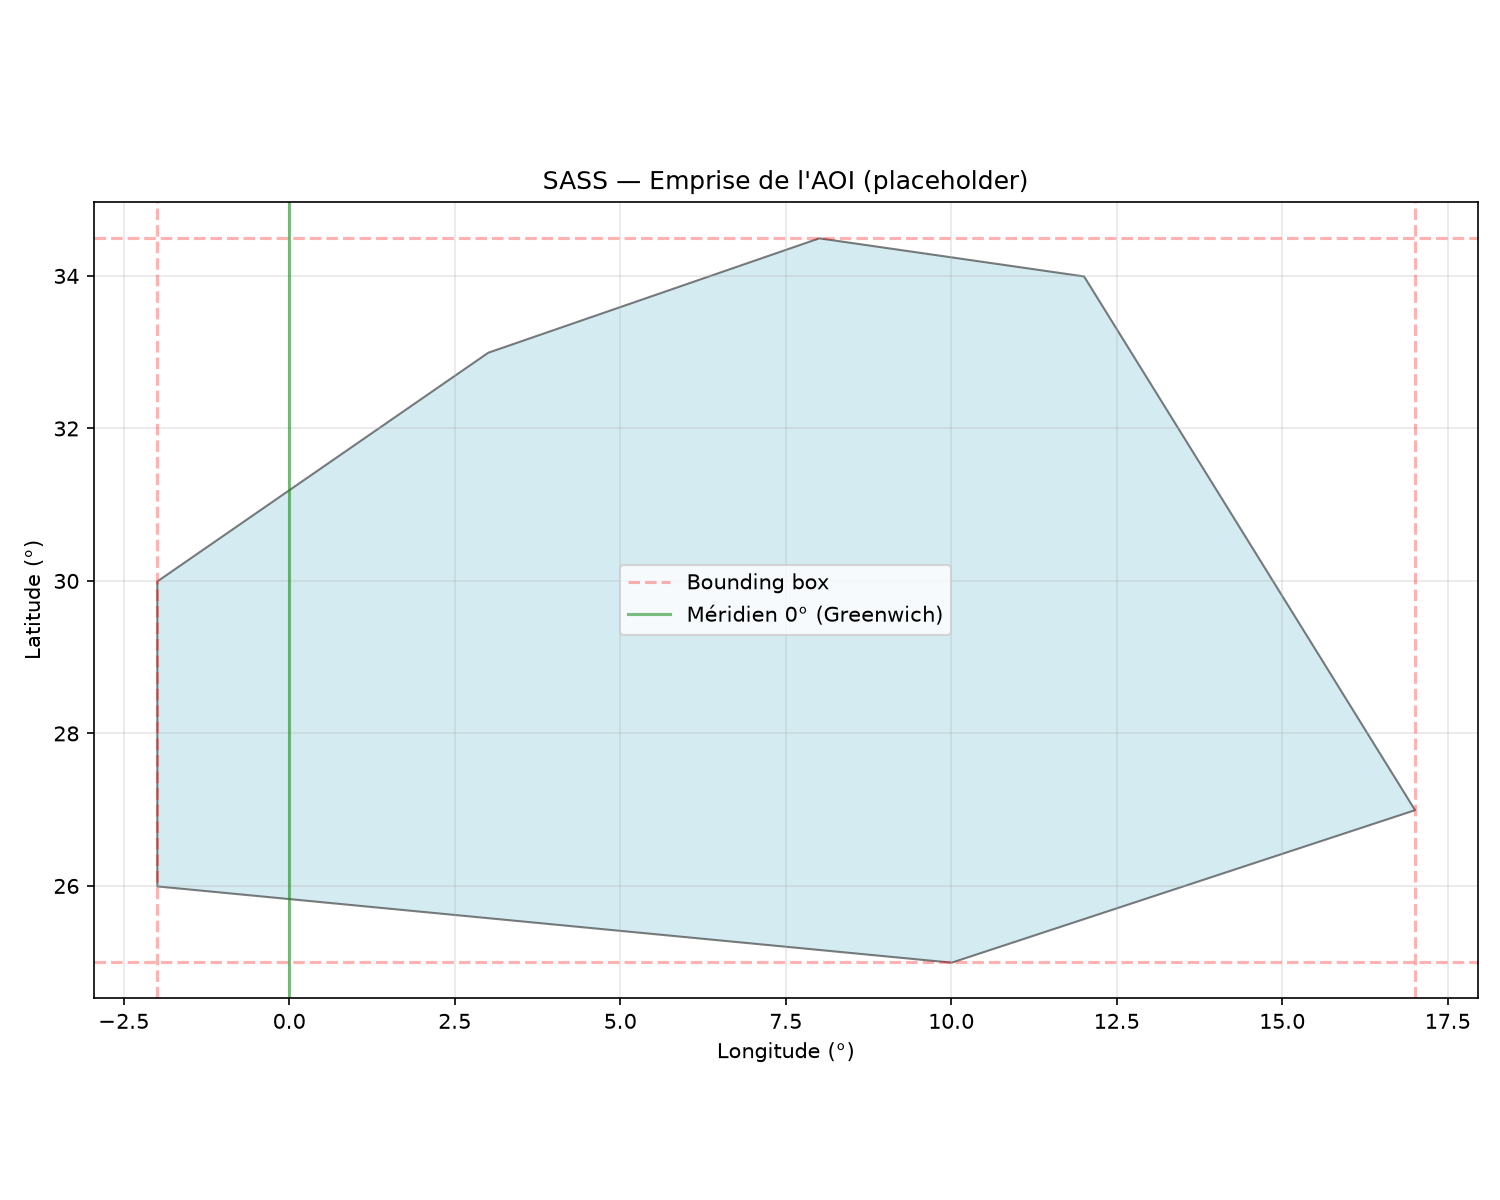
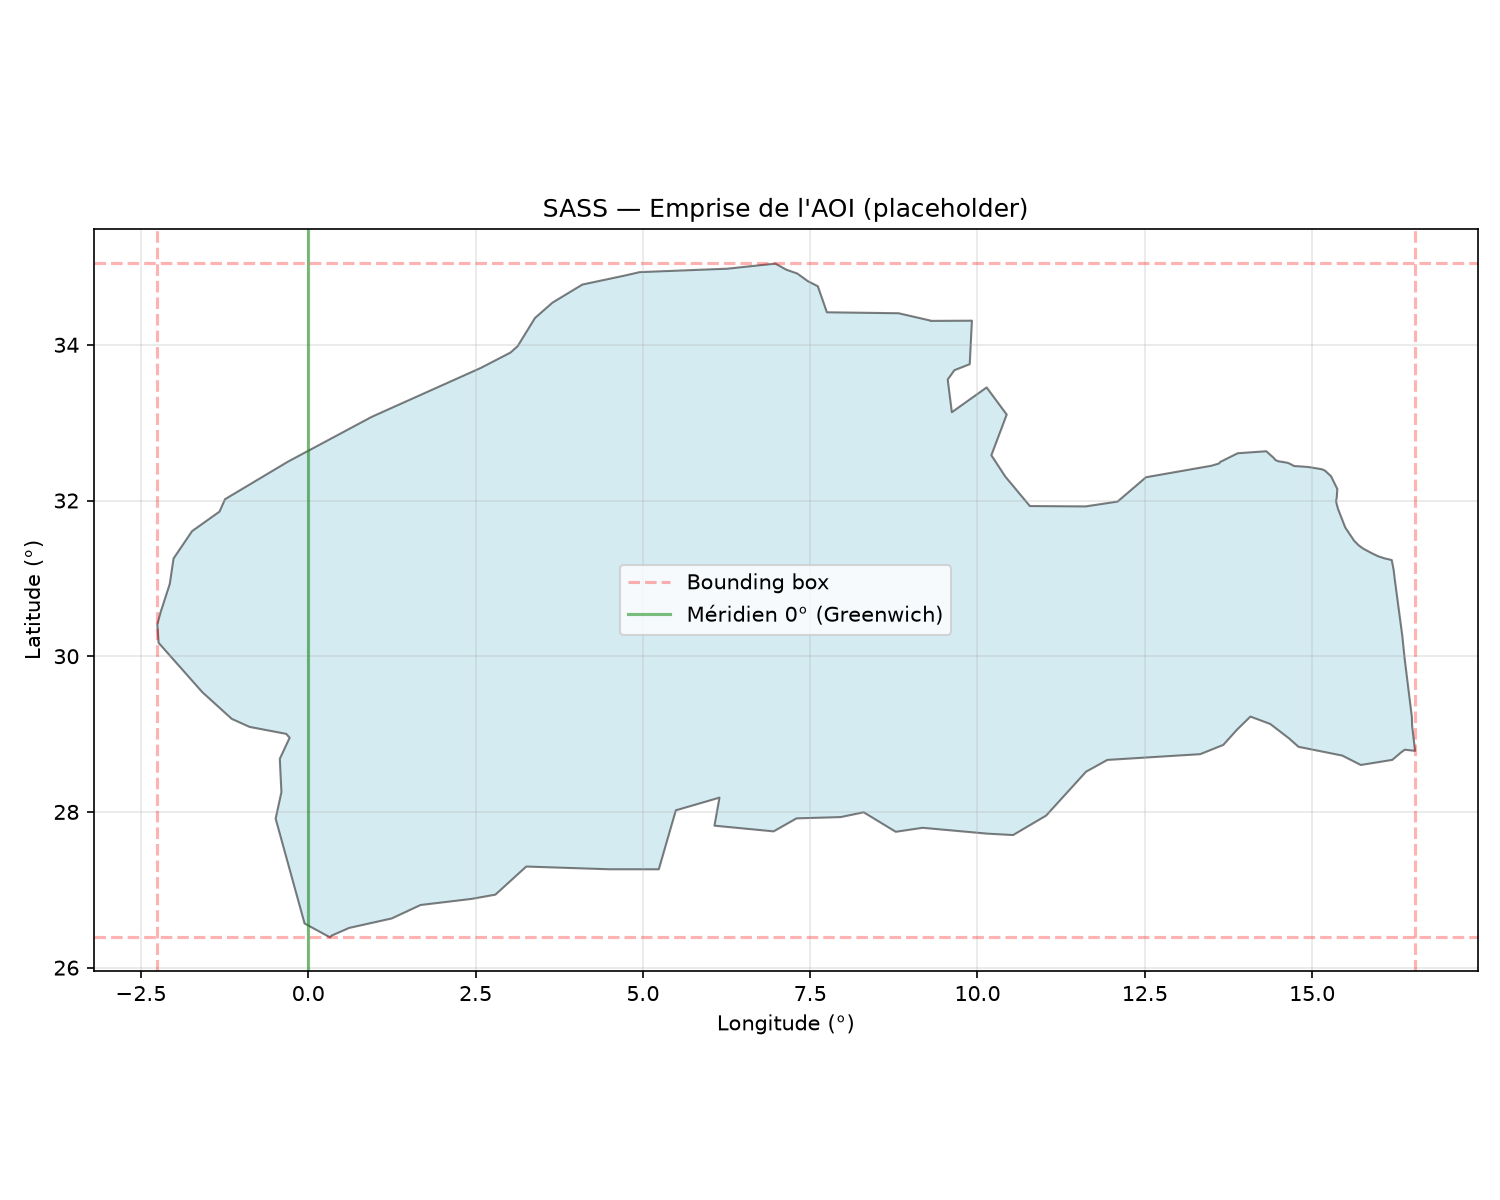
style: fix ruff lint errors (f-strings, imports, comparisons)
- remove extraneous f-string prefixes
- remove unused imports
- replace == True/False with idiomatic assertions
- rename ambiguous variable l to lnk

diff --git a/tests/test_preprocessing.py b/tests/test_preprocessing.py
@@ -6,7 +6,6 @@ le drapeau is_imputed, et la détection des blocs de lacunes.
 Fixtures synthétiques, zéro réseau.
 """
 
-import numpy as np
 import pandas as pd
 import pytest
 
@@ -85,12 +84,12 @@ class TestReindexMonthly:
         result = reindex_monthly(df_with_gaps)
 
         # Mois existants → False
-        assert result.loc["2005-01-01", "is_imputed"] == False
-        assert result.loc["2005-08-01", "is_imputed"] == False
+        assert not result.loc["2005-01-01", "is_imputed"] 
+        assert not result.loc["2005-08-01", "is_imputed"] 
 
         # Mois manquants → True
-        assert result.loc["2005-04-01", "is_imputed"] == True
-        assert result.loc["2005-10-01", "is_imputed"] == True
+        assert result.loc["2005-04-01", "is_imputed"] 
+        assert result.loc["2005-10-01", "is_imputed"]
 
     def test_pas_de_perte_de_donnees(self, df_with_gaps):
         """Le nombre de valeurs non-NaN dans gwsa_mm est le même avant/après."""
@@ -122,11 +121,11 @@ class TestInterpolateGaps:
         result = interpolate_gaps(df_reindexed)
 
         # Les mois manquants restent marqués imputés
-        assert result.loc["2005-04-01", "is_imputed"] == True
-        assert result.loc["2005-05-01", "is_imputed"] == True
+        assert result.loc["2005-04-01", "is_imputed"] 
+        assert result.loc["2005-05-01", "is_imputed"] 
 
         # Les mois observés restent marqués non-imputés
-        assert result.loc["2005-01-01", "is_imputed"] == False
+        assert not result.loc["2005-01-01", "is_imputed"] 
 
     def test_interpolation_lineaire_coherente(self, df_reindexed):
         """Les valeurs interpolées sont entre les bornes.

diff --git a/notebooks/01_explore_aoi.py b/notebooks/01_explore_aoi.py
@@ -1,4 +1,5 @@
 # fichier : notebooks/01_explore_aoi.py
+# ruff: noqa: E402
 # Script d'exploration de l'AOI — Tâche 1
 
 
@@ -16,18 +17,18 @@ aoi = gpd.read_file(AOI_GEOJSON)
 
 print(f"Nombre de features : {len(aoi)}")
 print(f"CRS : {aoi.crs}")
-print(f"\nPropriétés :")
+print("\nPropriétés :")
 print(aoi.drop(columns="geometry"))
-print(f"\nBounding box :")
+print("\nBounding box :")
 print(aoi.bounds)
 
 # --- Étape 2 : Vérifier le CRS ---
-print(f"\n=== CRS ===")
+print("\n=== CRS ===")
 print(f"CRS : {aoi.crs}")
 # Si None → le GeoJSON n'a pas déclaré de CRS, mais par convention c'est WGS84
 
 # --- Étape 3 : Calculer la surface (CORRECTEMENT) ---
-print(f"\n=== Surface ===")
+print("\n=== Surface ===")
 
 
 # Projeter en équi-surface d'abord
@@ -35,7 +36,7 @@ aoi_proj = aoi.to_crs("ESRI:54009")  # Mollweide (projection équi-surface)
 area_m2 = aoi_proj.geometry.area.iloc[0]
 area_km2 = area_m2 / 1e6
 print(f"Surface CORRECTE (Mollweide) : {area_km2:,.0f} km²")
-print(f"  → Attendu : ~1 000 000 km² (le placeholder est approximatif)")
+print("  → Attendu : ~1 000 000 km² ")
 print(f"  → 1 mm sur cette surface ≈ {area_km2 / 1e6:.2f} km³")
 
 # --- Étape 4 : Visualiser le polygone ---
@@ -43,7 +44,7 @@ import matplotlib.pyplot as plt
 
 fig, ax = plt.subplots(figsize=(10, 8))
 aoi.plot(ax=ax, edgecolor="black", facecolor="lightblue", alpha=0.5)
-ax.set_title("SASS — Emprise de l'AOI (placeholder)")
+ax.set_title("SASS — Emprise de l'AOI ")
 ax.set_xlabel("Longitude (°)")
 ax.set_ylabel("Latitude (°)")
 ax.grid(True, alpha=0.3)

diff --git a/notebooks/02_resolve_grace_url.py b/notebooks/02_resolve_grace_url.py
@@ -19,9 +19,9 @@ print(f"Nombre de granules trouvés : {len(granules)}")
 for g in granules:
     title = g.get("title", "?")
     # Chercher le lien de téléchargement direct
-    links = [l["href"] for l in g.get("links", [])
-             if l.get("rel") == "http://esipfed.org/ns/fedsearch/1.1/data#"
-             and l["href"].endswith(".nc")]
+    links = [lnk["href"] for lnk in g.get("links", [])
+             if lnk.get("rel") == "http://esipfed.org/ns/fedsearch/1.1/data#"
+             and lnk["href"].endswith(".nc")]
     print(f"\nTitre : {title}")
     for link in links:
         print(f"  URL : {link}")

diff --git a/pipeline/ingest_grace.py b/pipeline/ingest_grace.py
@@ -5,7 +5,6 @@ moyenne de bassin pondérée cos-lat → twsa_cm en Parquet."""
 import logging
 import numpy as np
 import xarray as xr
-import rioxarray         
 import geopandas as gpd
 import pandas as pd
 from pathlib import Path
@@ -50,7 +49,6 @@ def download_grace_mascon(dest: Path | None = None) -> Path:
     earthaccess.login(strategy="environment")
 
     logger.info("Téléchargement du mascon CRI depuis PO.DAAC...")
-    import requests as req
 
     session = earthaccess.get_requests_https_session()
     resp = session.get(GRACE_URL, timeout=300)

diff --git a/pipeline/preprocessing.py b/pipeline/preprocessing.py
@@ -276,7 +276,7 @@ if __name__ == "__main__":
 
     # Résumé
     print(f"\n{'='*50}")
-    print(f"Prétraitement terminé")
+    print("Prétraitement terminé")
     print(f"  Mois : {len(df_final)}")
     print(f"  Imputés : {df_final['is_imputed'].sum()}")
     print(f"  Incertitude moyenne : {df_final['uncertainty_mm'].mean():.1f} mm")

diff --git a/tests/test_ingest.py b/tests/test_ingest.py
@@ -10,7 +10,6 @@ import json
 
 import numpy as np
 import pandas as pd
-import pytest
 import xarray as xr
 
 from pipeline.ingest_gldas import process_one_granule

diff --git a/README.md b/README.md
@@ -1,4 +1,4 @@
-# GRACE/SASS — Suivi & prévision du stockage des eaux souterraines
+# GRACE/SASS : Suivi & prévision du stockage des eaux souterraines
 
 Pipeline Python reproductible + tableau de bord pour le suivi (« veille ») et
 la prévision (« perspectives ») du stockage des eaux souterraines du
@@ -51,5 +51,5 @@ profil. En CI : secrets `EARTHDATA_USERNAME`/`EARTHDATA_PASSWORD` (principaux,
 ## Références
 
 - Cahier des charges : `Spécification_Technique_Stage_GRACE.docx`
-- OSS (2008), *Système aquifère du Sahara septentrional — gestion commune
+- OSS (2008), *Système aquifère du Sahara septentrional - gestion commune
   d'un bassin transfrontalier* 